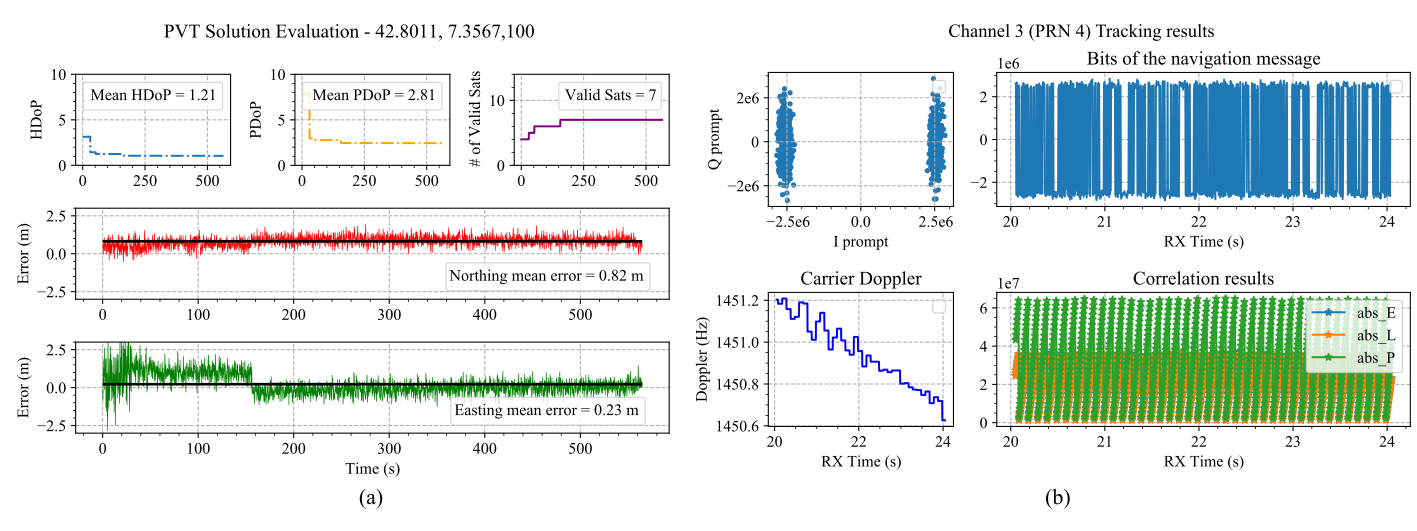
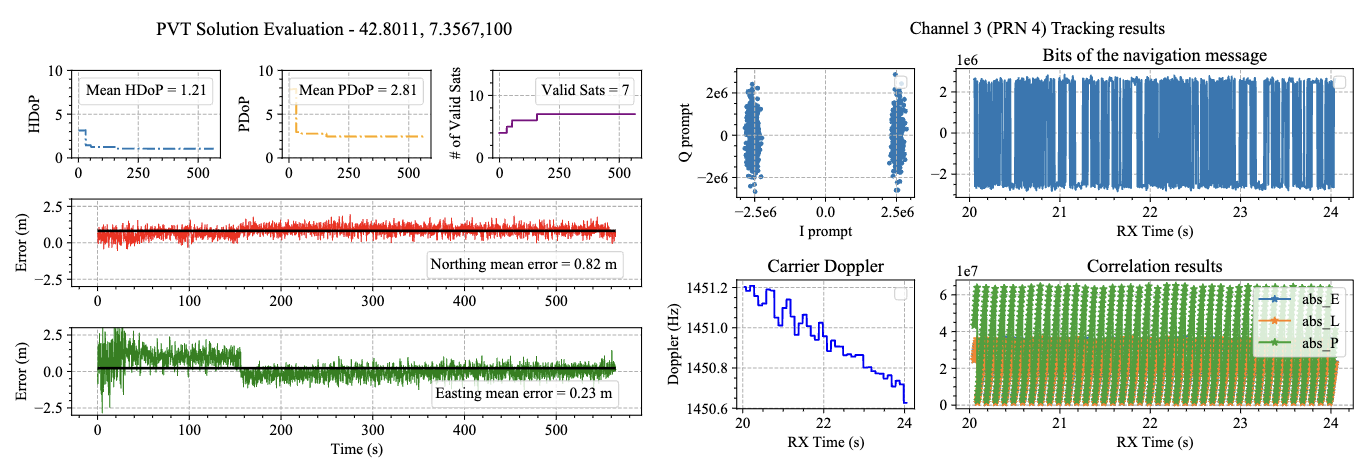
readme update

diff --git a/README.md b/README.md
@@ -85,11 +85,9 @@ Please specify the correct start time with `-t` option and correct navigation me
 
 The generated E1B/C signal has been tested with GNSS-SDR and a battery of receivers from u-Blox and Septentrio. Here are some evaluation results.
 
-<object data="./pvt_and_tracking.pdf" type="application/pdf" width="700px" height="700px">
-    <embed src="./pvt_and_tracking.pdf">
-        <p>This browser does not support PDFs. Please download the PDF to view it: <a href="pvt_and_tracking.pdf">Download PDF</a>.</p>
-    </embed>
-</object>
+<img src="pvt_and_tracking.png"
+     alt="Markdown Monster icon"
+     style="float: left; margin-right: 10px;" />
 
 eval methodology - [add gnss-sdr instructions and USRP instructions]
 
